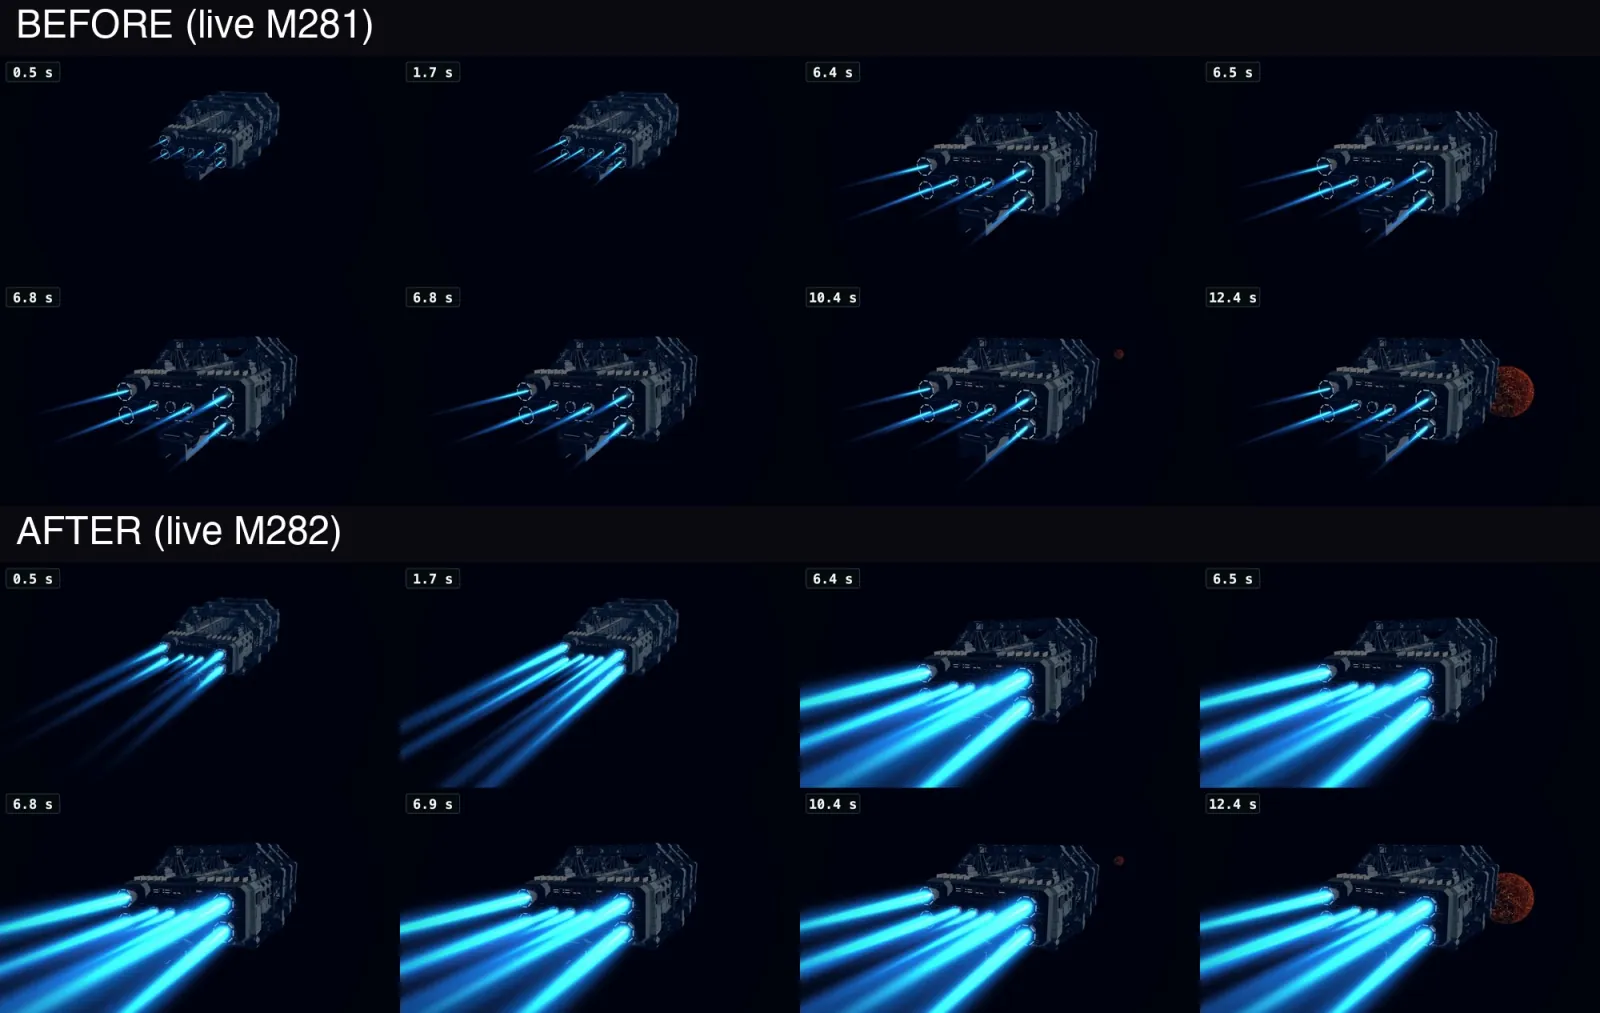
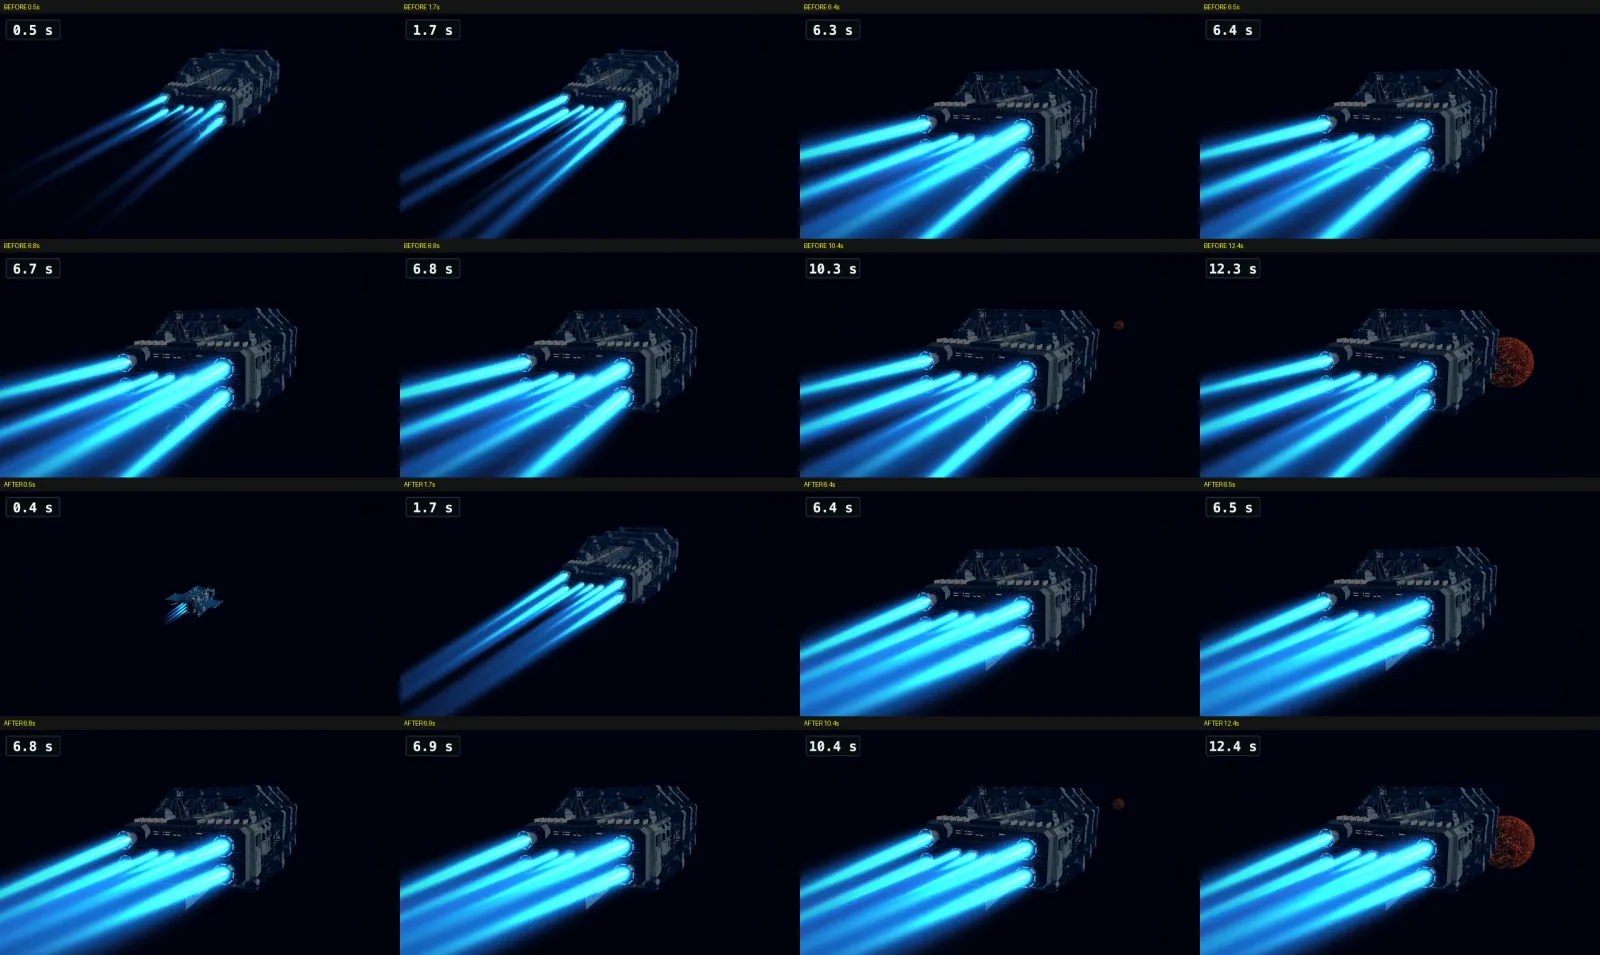
review page v115: Steel Tide: to review

diff --git a/d/steel-tide-clips-bb00109a/index.html b/d/steel-tide-clips-bb00109a/index.html
@@ -4,18 +4,18 @@
 <style>body{margin:0;background:#0d1117;color:#e6edf3;font:16px/1.5 -apple-system,system-ui,sans-serif}main{max-width:900px;margin:0 auto;padding:16px}h1{font-size:20px;margin:8px 0 4px}h2{font-size:17px;margin:34px 0 6px}p{margin:4px 0 10px;color:#9da7b3;font-size:14px}video,img{width:100%;height:auto;background:#000;border-radius:6px;display:block;margin-top:6px}a.b{display:inline-block;margin:8px 8px 0 0;padding:10px 14px;border:1px solid #3d444d;border-radius:6px;color:#e6edf3;text-decoration:none;font-size:14px}.t{font-size:12px;font-weight:400;color:#0d1117;background:#9da7b3;border-radius:10px;padding:2px 8px;margin-left:6px;vertical-align:middle}p.d{color:#7cb7ff;font-size:13px;margin:0 0 6px}nav small{color:#9da7b3;margin-left:6px}p b{color:#e6edf3}nav a{display:block;padding:7px 0;color:#7cb7ff;text-decoration:none;font-size:14px;border-bottom:1px solid #21262d}a.z{display:block;cursor:zoom-in}p.h{font-size:12px;margin:2px 0 8px}#lb{position:fixed;inset:0;background:#000;z-index:9;overflow:auto;display:none;cursor:zoom-in}#lb.on{display:block}#lb img{width:100%;height:100%;object-fit:contain;margin:0;border-radius:0;background:#000}#lb.big{cursor:zoom-out}#lb.big img{width:auto;height:auto;max-width:none;object-fit:none}#lbx{position:fixed;top:10px;right:14px;z-index:10;display:none;font:600 15px system-ui;color:#fff;background:#21262d;border:1px solid #3d444d;border-radius:6px;padding:8px 12px;cursor:pointer}#lb.on+#lbx{display:block}</style></head>
 <body><main>
 <h1>Steel Tide: to review</h1>
-<p>Version 114, 11-19 9:03 PM. Live now (M281): drop pod round 6 and faster Kites. Needs your yes: calmer Engineer hands. Newest first. Total 117.1 MB.</p>
-<nav><a href="#engineer-ingame-first">Engineer pilot in the game, first look (work in progress) <small>11-19 9:03 PM</small></a><a href="#cradle-jets-flames">Mothership engines on the launch flight <small>11-19 8:54 PM</small></a><a href="#drop-pod-landing-hold">Drop pod landing: camera holds high, whole impact in view (round 6) <small>11-19 8:44 PM</small></a><a href="#island-kites-air">Island: Kites climb to a jetting pilot (and snipers aim ahead of him) <small>11-19 8:44 PM</small></a><a href="#engineer-hands-r3">Engineer pilot: calmer hands (needs your yes) <small>11-19 8:42 PM</small></a><a href="#tactician-r2-s302-clean">Tactician pilot: your pick with the smudges cleaned (3D) <small>11-19 8:30 PM</small></a><a href="#vanguard-r2-s302">Vanguard pilot: round 2, version 2 (3D) <small>11-19 8:27 PM</small></a><a href="#tactician-r2-s302">Tactician pilot: round 2, version 3 (3D) <small>11-19 8:19 PM</small></a><a href="#vanguard-r2-s301">Vanguard pilot: round 2, version 1 (3D) <small>11-19 8:13 PM</small></a><a href="#engineer-r2-s302">Engineer pilot: round 2, version 3 (3D) <small>11-19 8:07 PM</small></a><a href="#tactician-r2-s401">Tactician pilot: round 2, version 2 (3D) <small>11-19 8:01 PM</small></a><a href="#engineer-r2-s401">Engineer pilot: round 2, version 2 (3D) <small>11-19 7:55 PM</small></a><a href="#engineer-r2-s301">Engineer pilot: round 2, version 1 (3D) <small>11-19 7:55 PM</small></a><a href="#tactician-r2-s301">Tactician pilot: round 2, version 1 (3D) <small>11-19 7:50 PM</small></a><a href="#hangar-decompress">Hangar decompression: mist, then the pilot walks in (boot and return) <small>11-19 7:35 PM</small></a><a href="#vanguard-hq-s101">Vanguard pilot: high-quality version 1 (3D) <small>11-19 7:31 PM</small></a><a href="#hangar-pod-cradle">Hangar pod cradle: five locks, legs side by side, hatch closes as he lowers <small>11-19 7:30 PM</small></a><a href="#tactician-hq-s202">Tactician pilot: high-quality version 2 (3D) <small>11-19 7:24 PM</small></a><a href="#tactician-hq-s101">Tactician pilot: high-quality version 1 (3D) <small>11-19 7:18 PM</small></a><a href="#engineer-arctic">Engineer pilot in your Arctic Recon colours (pass 2, 3D) <small>11-19 7:12 PM</small></a><a href="#engineer-hq-s202">Engineer pilot: high-quality version 2 (3D) <small>11-19 7:10 PM</small></a><a href="#engineer-hq-s101">Engineer pilot: high-quality version 1 (3D) <small>11-19 7:10 PM</small></a><a href="#engineer-trellis-r1">Engineer pilot: first 3D versions from Trellis <small>11-19 6:50 PM</small></a><a href="#mission-control-star-map">Mission Control star map with detailed planets <small>11-19 4:25 PM</small></a><a href="#petrel-seat-hold">Petrel: chest hold and real seats <small>11-19 4:25 PM</small></a><a href="#island-scuttle">Island enemy: Scuttle <small>11-19 3:40 PM</small></a><a href="#island-thresh">Island enemy: Thresh <small>11-19 3:40 PM</small></a><a href="#island-maul">Island enemy: Maul <small>11-19 3:40 PM</small></a><a href="#island-kite">Island enemy: Kite <small>11-19 3:40 PM</small></a><a href="#island-haul">Island enemy: Haul <small>11-19 3:40 PM</small></a><a href="#island-coil">Island enemy: Coil <small>11-19 3:40 PM</small></a><a href="#island-bloom">Island enemy: Bloom <small>11-19 3:40 PM</small></a><a href="#island-lagoon-sniper">Island enemy: Lagoon Sniper <small>11-19 3:40 PM</small></a><a href="#island-lagoon-lobber">Island enemy: Lagoon Lobber <small>11-19 3:40 PM</small></a><a href="#island-heave">Island enemy: Heave <small>11-19 3:40 PM</small></a><a href="#island-roost">Island enemy: Roost (the Widow) <small>11-19 3:40 PM</small></a><a href="#island-noose">Island enemy: Noose <small>11-19 3:40 PM</small></a><a href="#island-brine">Island enemy: Brine <small>11-19 3:40 PM</small></a><a href="#island-rift">Island enemy: Rift <small>11-19 3:40 PM</small></a><a href="#island-quill">Island enemy: Quill <small>11-19 3:40 PM</small></a><a href="#island-drum">Island enemy: Drum <small>11-19 3:40 PM</small></a><a href="#island-tusk">Island enemy: Tusk <small>11-19 3:40 PM</small></a><a href="#hangar-jets-every-press">Hangar jets on every Space tap and Shift dash <small>11-19 3:30 PM</small></a><a href="#pistol-holster">Pistol stays in its holster until you aim <small>11-19 3:00 PM</small></a><a href="#extraction-shot-holds">Extraction: the climb and space shots hold until the ship is barely visible <small>11-19 2:40 PM</small></a><a href="#loading-no-counts">Loading screen shows only the step and the bar <small>11-19 2:30 PM</small></a><a href="#hangar-globe-fix">Hangar globe turns on its own, with the target marks removed <small>11-19 1:50 PM</small></a><a href="#petrel-seat-facing">Petrel: the seated pilot faces the way his seat faces <small>11-19 1:20 PM</small></a><a href="#pilot-neck-level">Pilot&#x27;s helmet stays level when you aim up or down <small>11-19 12:07 PM</small></a><a href="#mission-control-planets">Mission Control: pick a planet first, then start <small>11-19 12:07 PM</small></a><a href="#hangar-station-screens">Hangar station screens <small>11-19 12:07 PM</small></a><a href="#extraction-sequence-cuts">Extraction sequence, your notes applied <small>11-19 11:35 AM</small></a><a href="#pilot-walk-jog-sprint">Pilot walk, jog and sprint <small>11-19 10:40 AM</small></a><a href="#pilot-drop-pod-boarding">Pilot climbs into the drop pod <small>11-19 10:40 AM</small></a><a href="#hangar-laser-tag">Hangar laser tag <small>11-19 1:22 AM</small></a><a href="#mission-control-prop">Mission Control: the holo globe table <small>11-19 1:05 AM</small></a><a href="#hangar-drop-pod-marker">Drop pod marker in the hangar <small>11-19 12:50 AM</small></a><a href="#hangar-real-in-game">The real hangar, walked in the game <small>11-18 9:30 PM</small></a><a href="#gravity-well-land">Gravity Well bends real shots on land <small>11-18 9:01 PM</small></a><a href="#cradle-drop-launch-r4">NEEDS YOUR PICK: the drop cannon&#x27;s size on the Cradle (three sizes), with its back hidden and navy colour <small>11-18 7:43 PM</small></a><a href="#stage4-terrain-and-base">Stage 4, the new-planet loop: parts built, not playable yet <small>11-18 7:29 PM</small></a><a href="#sequence-join-run">The whole run, second pass: real lift-off on the beach, real drop pod, new landing pad <small>11-18 7:05 PM</small></a><a href="#ocean-titan-bar-below">NEEDS YOUR EYE: Ocean Titan now uses the Strider&#x27;s camera (low, behind, horizon in view) <small>11-18 6:46 PM</small></a><a href="#titan-hud-unify">One lock ring, one Titan armor bar, cooldown icons instead of status text (first pass) <small>11-18 6:41 PM</small></a><a href="#cradle-hull-r4">The Cradle mothership, round 4: cannon moved under the stern, darker landing pad <small>11-18 5:15 PM</small></a><a href="#island-fliers-low">Red fliers over the island: fewer, and they creep instead of parking <small>11-18 12:30 AM</small></a><a href="#rocket-sentry-seated">Rocket sentry: the pilot sits in it, hands on the handle <small>11-17 1:45 PM</small></a><a href="#horde-pilot-zoom">NEEDS YOUR CALL: island Horde, camera zooms in when you are on foot <small>11-17 1:30 PM</small></a><a href="#range-mech-turn-stop-close">Test range: the mech&#x27;s turn and stop, close up <small>11-17 12:25 AM</small></a></nav>
+<p>Version 115, 11-19 9:05 PM. Live now (M281): drop pod round 6 and faster Kites. Needs your yes: calmer Engineer hands. Newest first. Total 117.2 MB.</p>
+<nav><a href="#cradle-jets-flames">Mothership engines on the launch flight <small>11-19 9:05 PM</small></a><a href="#engineer-ingame-first">Engineer pilot in the game, first look (work in progress) <small>11-19 9:03 PM</small></a><a href="#drop-pod-landing-hold">Drop pod landing: camera holds high, whole impact in view (round 6) <small>11-19 8:44 PM</small></a><a href="#island-kites-air">Island: Kites climb to a jetting pilot (and snipers aim ahead of him) <small>11-19 8:44 PM</small></a><a href="#engineer-hands-r3">Engineer pilot: calmer hands (needs your yes) <small>11-19 8:42 PM</small></a><a href="#tactician-r2-s302-clean">Tactician pilot: your pick with the smudges cleaned (3D) <small>11-19 8:30 PM</small></a><a href="#vanguard-r2-s302">Vanguard pilot: round 2, version 2 (3D) <small>11-19 8:27 PM</small></a><a href="#tactician-r2-s302">Tactician pilot: round 2, version 3 (3D) <small>11-19 8:19 PM</small></a><a href="#vanguard-r2-s301">Vanguard pilot: round 2, version 1 (3D) <small>11-19 8:13 PM</small></a><a href="#engineer-r2-s302">Engineer pilot: round 2, version 3 (3D) <small>11-19 8:07 PM</small></a><a href="#tactician-r2-s401">Tactician pilot: round 2, version 2 (3D) <small>11-19 8:01 PM</small></a><a href="#engineer-r2-s401">Engineer pilot: round 2, version 2 (3D) <small>11-19 7:55 PM</small></a><a href="#engineer-r2-s301">Engineer pilot: round 2, version 1 (3D) <small>11-19 7:55 PM</small></a><a href="#tactician-r2-s301">Tactician pilot: round 2, version 1 (3D) <small>11-19 7:50 PM</small></a><a href="#hangar-decompress">Hangar decompression: mist, then the pilot walks in (boot and return) <small>11-19 7:35 PM</small></a><a href="#vanguard-hq-s101">Vanguard pilot: high-quality version 1 (3D) <small>11-19 7:31 PM</small></a><a href="#hangar-pod-cradle">Hangar pod cradle: five locks, legs side by side, hatch closes as he lowers <small>11-19 7:30 PM</small></a><a href="#tactician-hq-s202">Tactician pilot: high-quality version 2 (3D) <small>11-19 7:24 PM</small></a><a href="#tactician-hq-s101">Tactician pilot: high-quality version 1 (3D) <small>11-19 7:18 PM</small></a><a href="#engineer-arctic">Engineer pilot in your Arctic Recon colours (pass 2, 3D) <small>11-19 7:12 PM</small></a><a href="#engineer-hq-s202">Engineer pilot: high-quality version 2 (3D) <small>11-19 7:10 PM</small></a><a href="#engineer-hq-s101">Engineer pilot: high-quality version 1 (3D) <small>11-19 7:10 PM</small></a><a href="#engineer-trellis-r1">Engineer pilot: first 3D versions from Trellis <small>11-19 6:50 PM</small></a><a href="#mission-control-star-map">Mission Control star map with detailed planets <small>11-19 4:25 PM</small></a><a href="#petrel-seat-hold">Petrel: chest hold and real seats <small>11-19 4:25 PM</small></a><a href="#island-scuttle">Island enemy: Scuttle <small>11-19 3:40 PM</small></a><a href="#island-thresh">Island enemy: Thresh <small>11-19 3:40 PM</small></a><a href="#island-maul">Island enemy: Maul <small>11-19 3:40 PM</small></a><a href="#island-kite">Island enemy: Kite <small>11-19 3:40 PM</small></a><a href="#island-haul">Island enemy: Haul <small>11-19 3:40 PM</small></a><a href="#island-coil">Island enemy: Coil <small>11-19 3:40 PM</small></a><a href="#island-bloom">Island enemy: Bloom <small>11-19 3:40 PM</small></a><a href="#island-lagoon-sniper">Island enemy: Lagoon Sniper <small>11-19 3:40 PM</small></a><a href="#island-lagoon-lobber">Island enemy: Lagoon Lobber <small>11-19 3:40 PM</small></a><a href="#island-heave">Island enemy: Heave <small>11-19 3:40 PM</small></a><a href="#island-roost">Island enemy: Roost (the Widow) <small>11-19 3:40 PM</small></a><a href="#island-noose">Island enemy: Noose <small>11-19 3:40 PM</small></a><a href="#island-brine">Island enemy: Brine <small>11-19 3:40 PM</small></a><a href="#island-rift">Island enemy: Rift <small>11-19 3:40 PM</small></a><a href="#island-quill">Island enemy: Quill <small>11-19 3:40 PM</small></a><a href="#island-drum">Island enemy: Drum <small>11-19 3:40 PM</small></a><a href="#island-tusk">Island enemy: Tusk <small>11-19 3:40 PM</small></a><a href="#hangar-jets-every-press">Hangar jets on every Space tap and Shift dash <small>11-19 3:30 PM</small></a><a href="#pistol-holster">Pistol stays in its holster until you aim <small>11-19 3:00 PM</small></a><a href="#extraction-shot-holds">Extraction: the climb and space shots hold until the ship is barely visible <small>11-19 2:40 PM</small></a><a href="#loading-no-counts">Loading screen shows only the step and the bar <small>11-19 2:30 PM</small></a><a href="#hangar-globe-fix">Hangar globe turns on its own, with the target marks removed <small>11-19 1:50 PM</small></a><a href="#petrel-seat-facing">Petrel: the seated pilot faces the way his seat faces <small>11-19 1:20 PM</small></a><a href="#pilot-neck-level">Pilot&#x27;s helmet stays level when you aim up or down <small>11-19 12:07 PM</small></a><a href="#mission-control-planets">Mission Control: pick a planet first, then start <small>11-19 12:07 PM</small></a><a href="#hangar-station-screens">Hangar station screens <small>11-19 12:07 PM</small></a><a href="#extraction-sequence-cuts">Extraction sequence, your notes applied <small>11-19 11:35 AM</small></a><a href="#pilot-walk-jog-sprint">Pilot walk, jog and sprint <small>11-19 10:40 AM</small></a><a href="#pilot-drop-pod-boarding">Pilot climbs into the drop pod <small>11-19 10:40 AM</small></a><a href="#hangar-laser-tag">Hangar laser tag <small>11-19 1:22 AM</small></a><a href="#mission-control-prop">Mission Control: the holo globe table <small>11-19 1:05 AM</small></a><a href="#hangar-drop-pod-marker">Drop pod marker in the hangar <small>11-19 12:50 AM</small></a><a href="#hangar-real-in-game">The real hangar, walked in the game <small>11-18 9:30 PM</small></a><a href="#gravity-well-land">Gravity Well bends real shots on land <small>11-18 9:01 PM</small></a><a href="#cradle-drop-launch-r4">NEEDS YOUR PICK: the drop cannon&#x27;s size on the Cradle (three sizes), with its back hidden and navy colour <small>11-18 7:43 PM</small></a><a href="#stage4-terrain-and-base">Stage 4, the new-planet loop: parts built, not playable yet <small>11-18 7:29 PM</small></a><a href="#sequence-join-run">The whole run, second pass: real lift-off on the beach, real drop pod, new landing pad <small>11-18 7:05 PM</small></a><a href="#ocean-titan-bar-below">NEEDS YOUR EYE: Ocean Titan now uses the Strider&#x27;s camera (low, behind, horizon in view) <small>11-18 6:46 PM</small></a><a href="#titan-hud-unify">One lock ring, one Titan armor bar, cooldown icons instead of status text (first pass) <small>11-18 6:41 PM</small></a><a href="#cradle-hull-r4">The Cradle mothership, round 4: cannon moved under the stern, darker landing pad <small>11-18 5:15 PM</small></a><a href="#island-fliers-low">Red fliers over the island: fewer, and they creep instead of parking <small>11-18 12:30 AM</small></a><a href="#rocket-sentry-seated">Rocket sentry: the pilot sits in it, hands on the handle <small>11-17 1:45 PM</small></a><a href="#horde-pilot-zoom">NEEDS YOUR CALL: island Horde, camera zooms in when you are on foot <small>11-17 1:30 PM</small></a><a href="#range-mech-turn-stop-close">Test range: the mech&#x27;s turn and stop, close up <small>11-17 12:25 AM</small></a></nav>
+<section id="cradle-jets-flames"><h2>Mothership engines on the launch flight <span class="t">in review (built, not live)</span></h2>
+<p class="d">Updated 11-19 9:05 PM ET &middot; captured from lane build 296d88dde5 vs live M282</p>
+<p><b>What changed:</b> All seven engine flames now leave the ship at one shared angle; they used to fan out because of the close camera&#x27;s perspective.</p>
+<p><b>Where to look:</b> Top two rows BEFORE (live), bottom two rows AFTER: the flames run parallel at every time. The first AFTER frame is earlier, so the ship is still far away.</p>
+<a class="z" href="cradle-jets-flames-1-full.webp"><img loading="lazy" src="cradle-jets-flames-1.webp" alt="Mothership engines on the launch flight"></a><p class="h">Click the image for full screen, click again for full size.</p></section>
 <section id="engineer-ingame-first"><h2>Engineer pilot in the game, first look (work in progress) <span class="t">built, not live</span></h2>
 <p class="d">Updated 11-19 9:03 PM ET &middot; captured from lane build 8c98383459</p>
 <p><b>What changed:</b> First time the approved Engineer model runs in the game, on a skeleton fitted to its own body. Arms and legs still clip a little; that fix is running.</p>
 <p><b>Where to look:</b> Top row and first two of the bottom row: walking with the rifle from the side. Last two: from behind at the play camera.</p>
 <a class="z" href="engineer-ingame-first-1-full.webp"><img loading="lazy" src="engineer-ingame-first-1.webp" alt="Engineer pilot in the game, first look (work in progress)"></a><p class="h">Click the image for full screen, click again for full size.</p></section>
-<section id="cradle-jets-flames"><h2>Mothership engines on the launch flight <span class="t">live M282</span></h2>
-<p class="d">Updated 11-19 8:54 PM ET &middot; captured from reviewer run of the M282 build</p>
-<p><b>What changed:</b> All seven engines now burn with full flames that fill each nozzle; the grey flicker is gone. Sparks are still faint (separate follow-up).</p>
-<p><b>Where to look:</b> Top rows BEFORE, bottom rows AFTER: compare the engine flames at each matching time.</p>
-<a class="z" href="cradle-jets-flames-1-full.webp"><img loading="lazy" src="cradle-jets-flames-1.webp" alt="Mothership engines on the launch flight"></a><p class="h">Click the image for full screen, click again for full size.</p></section>
 <section id="drop-pod-landing-hold"><h2>Drop pod landing: camera holds high, whole impact in view (round 6) <span class="t">live M281</span></h2>
 <p class="d">Updated 11-19 8:44 PM ET &middot; captured from lane build 3a85958d61 (round 6, now live in M281)</p>
 <p><b>What changed:</b> Round 6 for your fail: the camera stops coming down by your 7.8 s point and holds high; the pod lands below and the whole crater shows.</p>
